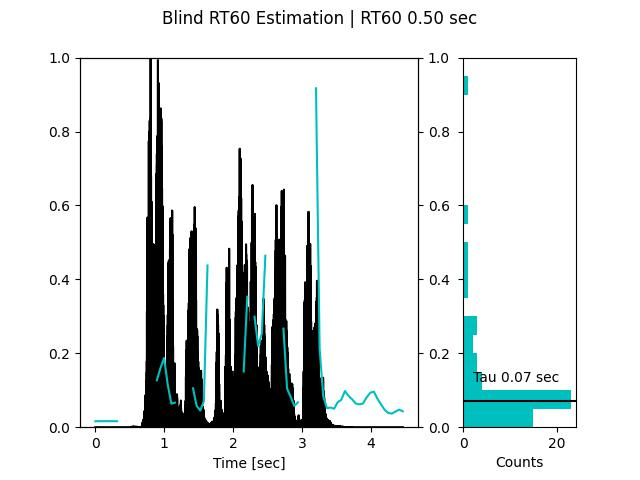
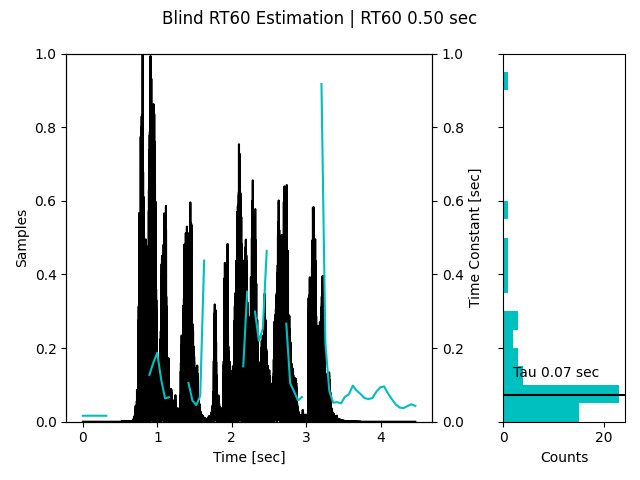
Add y label to figure

diff --git a/blind_rt60/estimation.py b/blind_rt60/estimation.py
@@ -177,12 +177,14 @@ class BlindRT60:
         axs[0].plot(np.linspace(0.0, x_duration, len(x)), abs(x) / np.max(np.abs(x - np.mean(x))), label='Signal',
                     color='black')
         axs[0].set_xlabel('Time [sec]')
+        axs[0].set_ylabel('Samples')
         axs[0].tick_params(axis='y', labelcolor='black')
 
         # Plot the estimated reverberation times for each frame
         axs0 = axs[0].twinx()
         axs0.plot(np.linspace(0.0, x_duration, len(self.taus)), self.taus, label='Tau [sec]', color='c')
         axs0.tick_params(axis='y', labelcolor='black')
+        axs0.set_ylabel('Time Constant [sec]')
 
         # Create a histogram of taus
         bins = np.arange(ylim[0], ylim[1], 0.05)
@@ -198,6 +200,7 @@ class BlindRT60:
         # Add a title to the entire visualization
         plt.suptitle(f'Blind RT60 Estimation | RT60 {self.rt60:.2f} sec')
 
+        fig.tight_layout()
         return fig
 
     def estimate(self, x: np.ndarray, fs: int) -> float:
